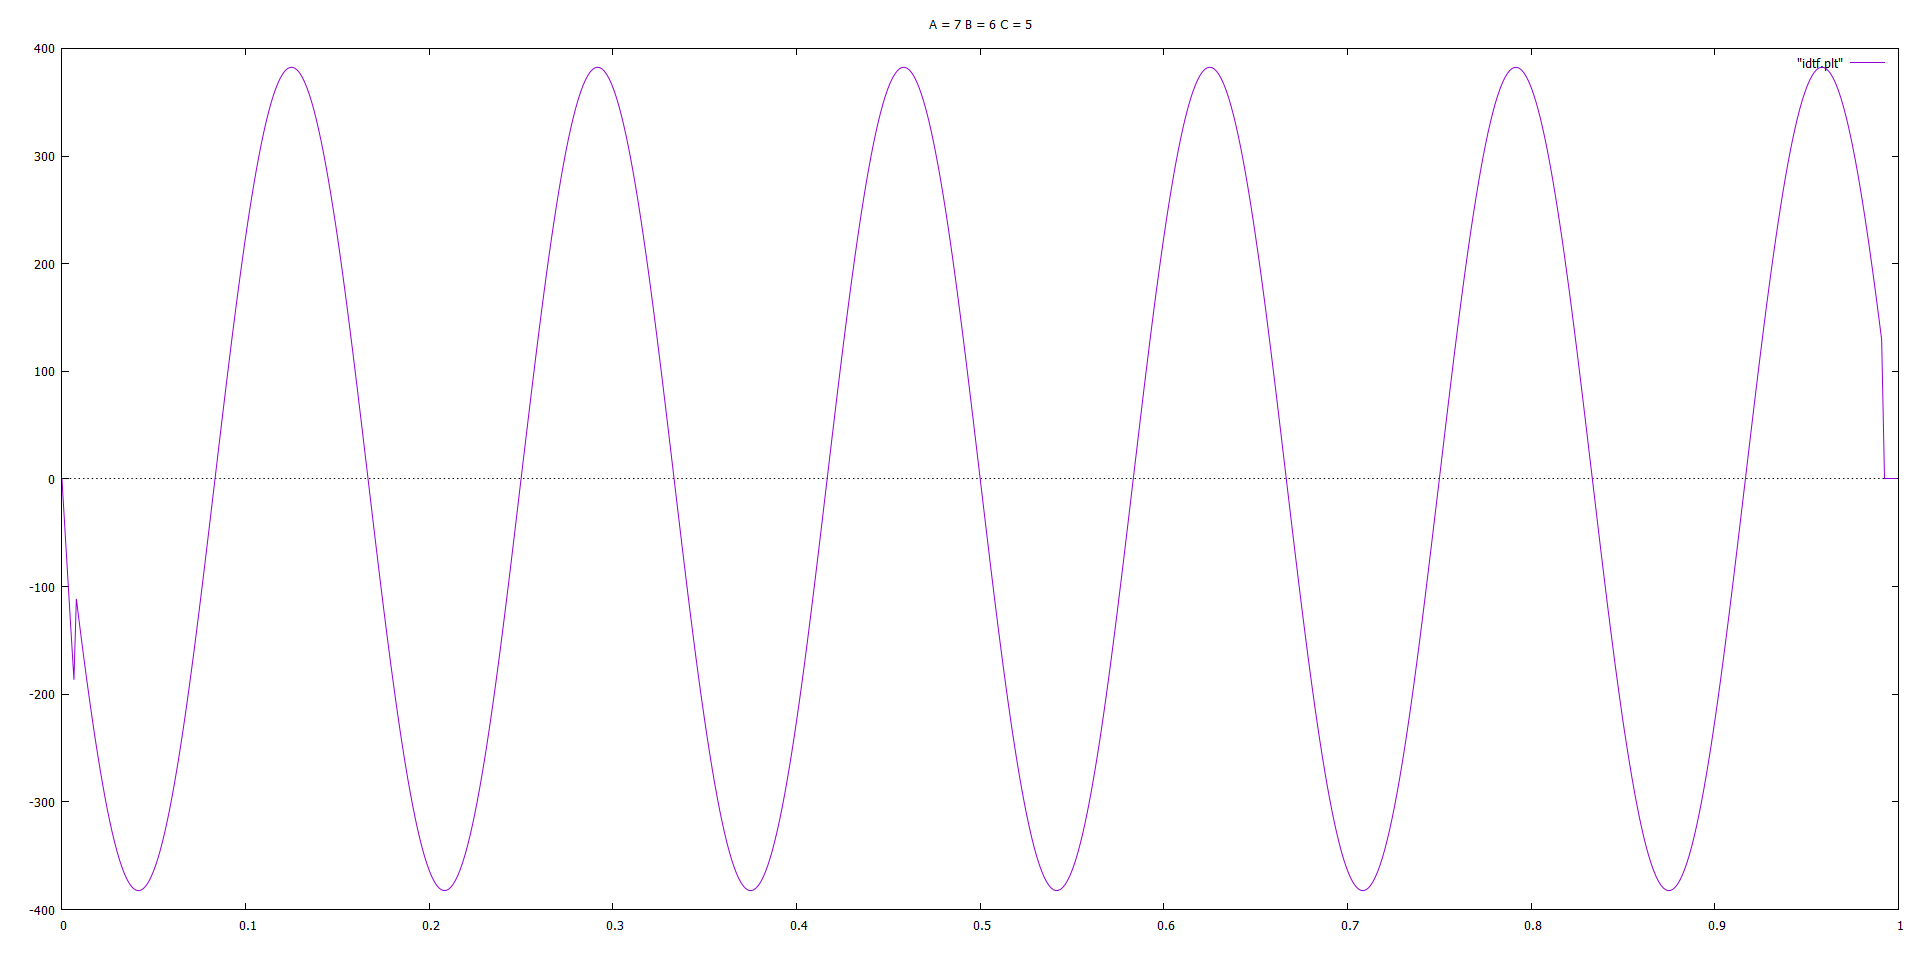
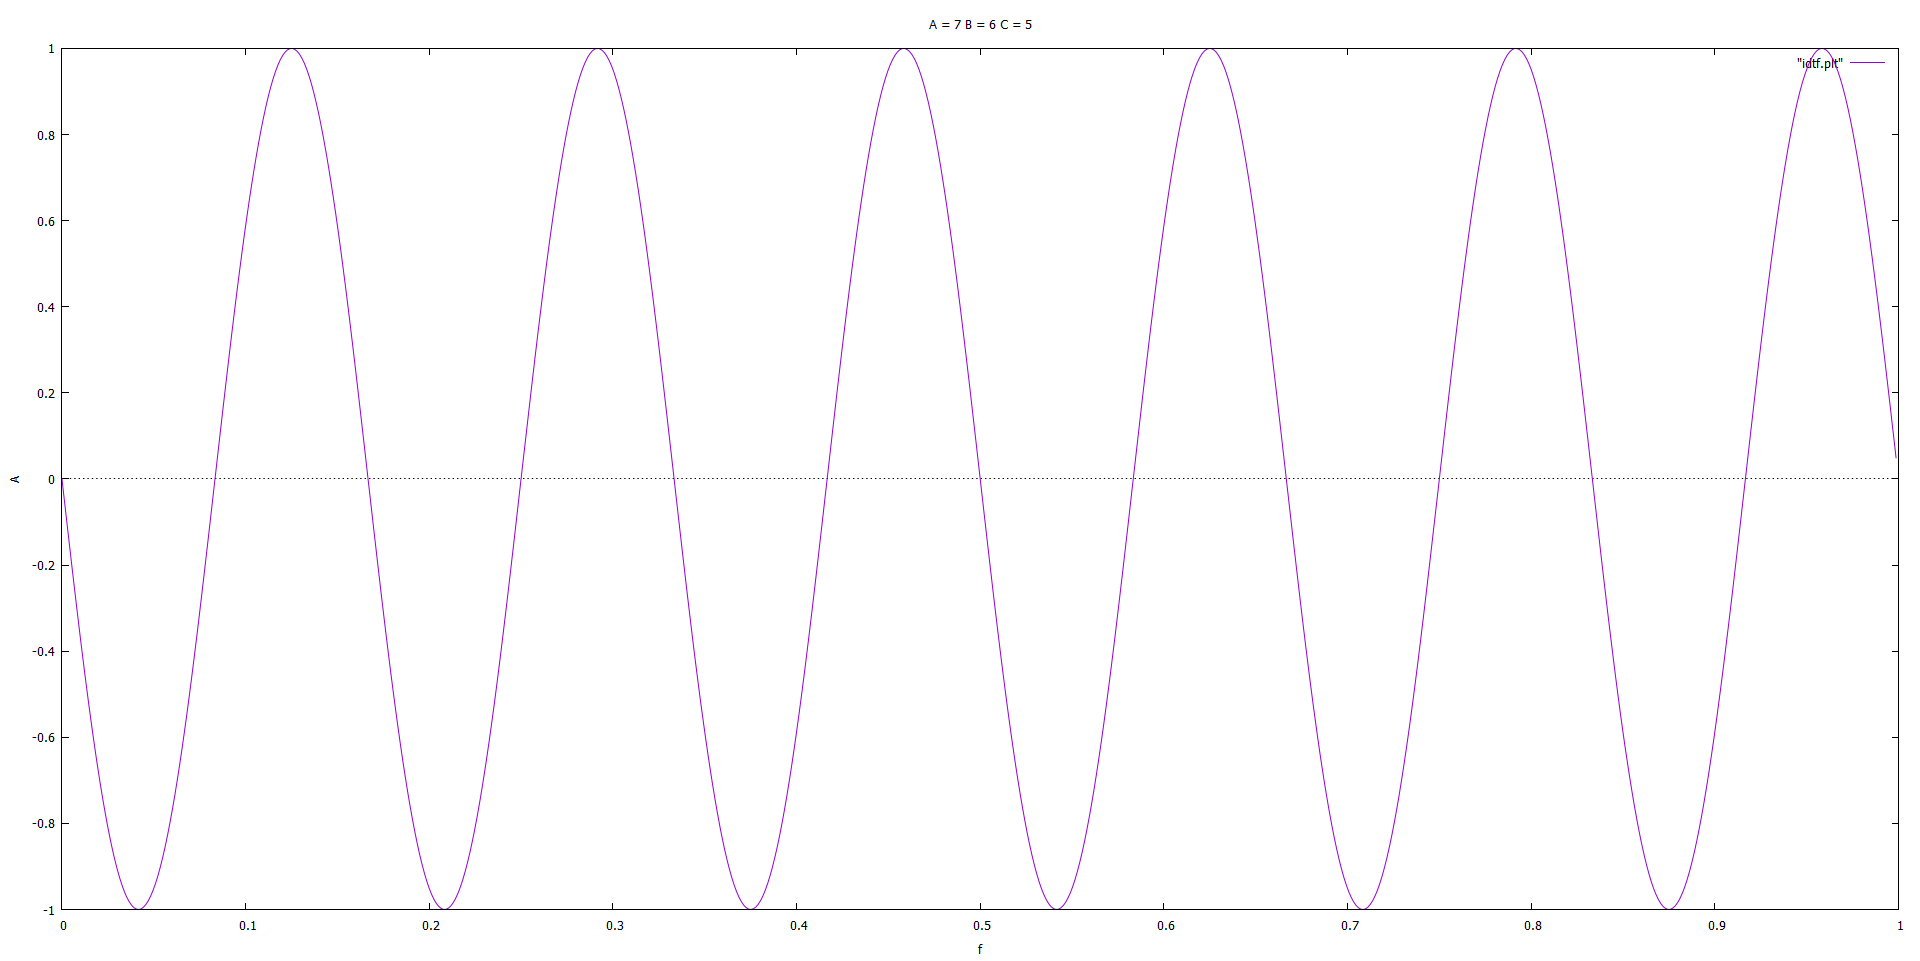
Add files via upload

diff --git a/LAB_03/main.cpp b/LAB_03/main.cpp
@@ -106,20 +106,16 @@ complex<double>* dft(double* tab, const int N) {
 	return dtf;
 }
 
-double* idtf(complex<double> *tab, const int N) {
-	complex<double>* idtf = new complex<double>[N];
+double* idtf(complex<double>* tab, int N) {
+	double* IDTF = new double[N];
 	complex<double> i(0.0, 1);
 	for (int n = 0; n < N; n++) {
+		IDTF[n] = 0;
 		for (int k = 0; k < N; k++) {
-			double m = 2 * M_PI * k * n / N;
-			idtf[k] += (tab[n] * complex<double>(pow(exp(1.0),i*m)));
+			complex<double> wn = exp((i * 2.0 * M_PI) / (double)N);
+			IDTF[n] += (tab[k] * pow(wn, n * k)).real();
 		}
-		idtf[n] *= 1 / N;
-	}
-	double* IDTF = new double[N];
-	for (int i = 0; i < N; i++)
-	{
-		IDTF[i] = idtf[i].real();
+		IDTF[n] = IDTF[n] / N;
 	}
 	return IDTF;
 }
@@ -172,7 +168,7 @@ int main() {
 	for (int i = 0; i < length; i++)
 	{
 		tableX[i] = xtmp;
-		tableY[i] = P(xtmp,42);
+		tableY[i] = s(xtmp);
 		xtmp += deltaT;
 	}
 	GenerateData(tableX, tableY, length, "sin");
